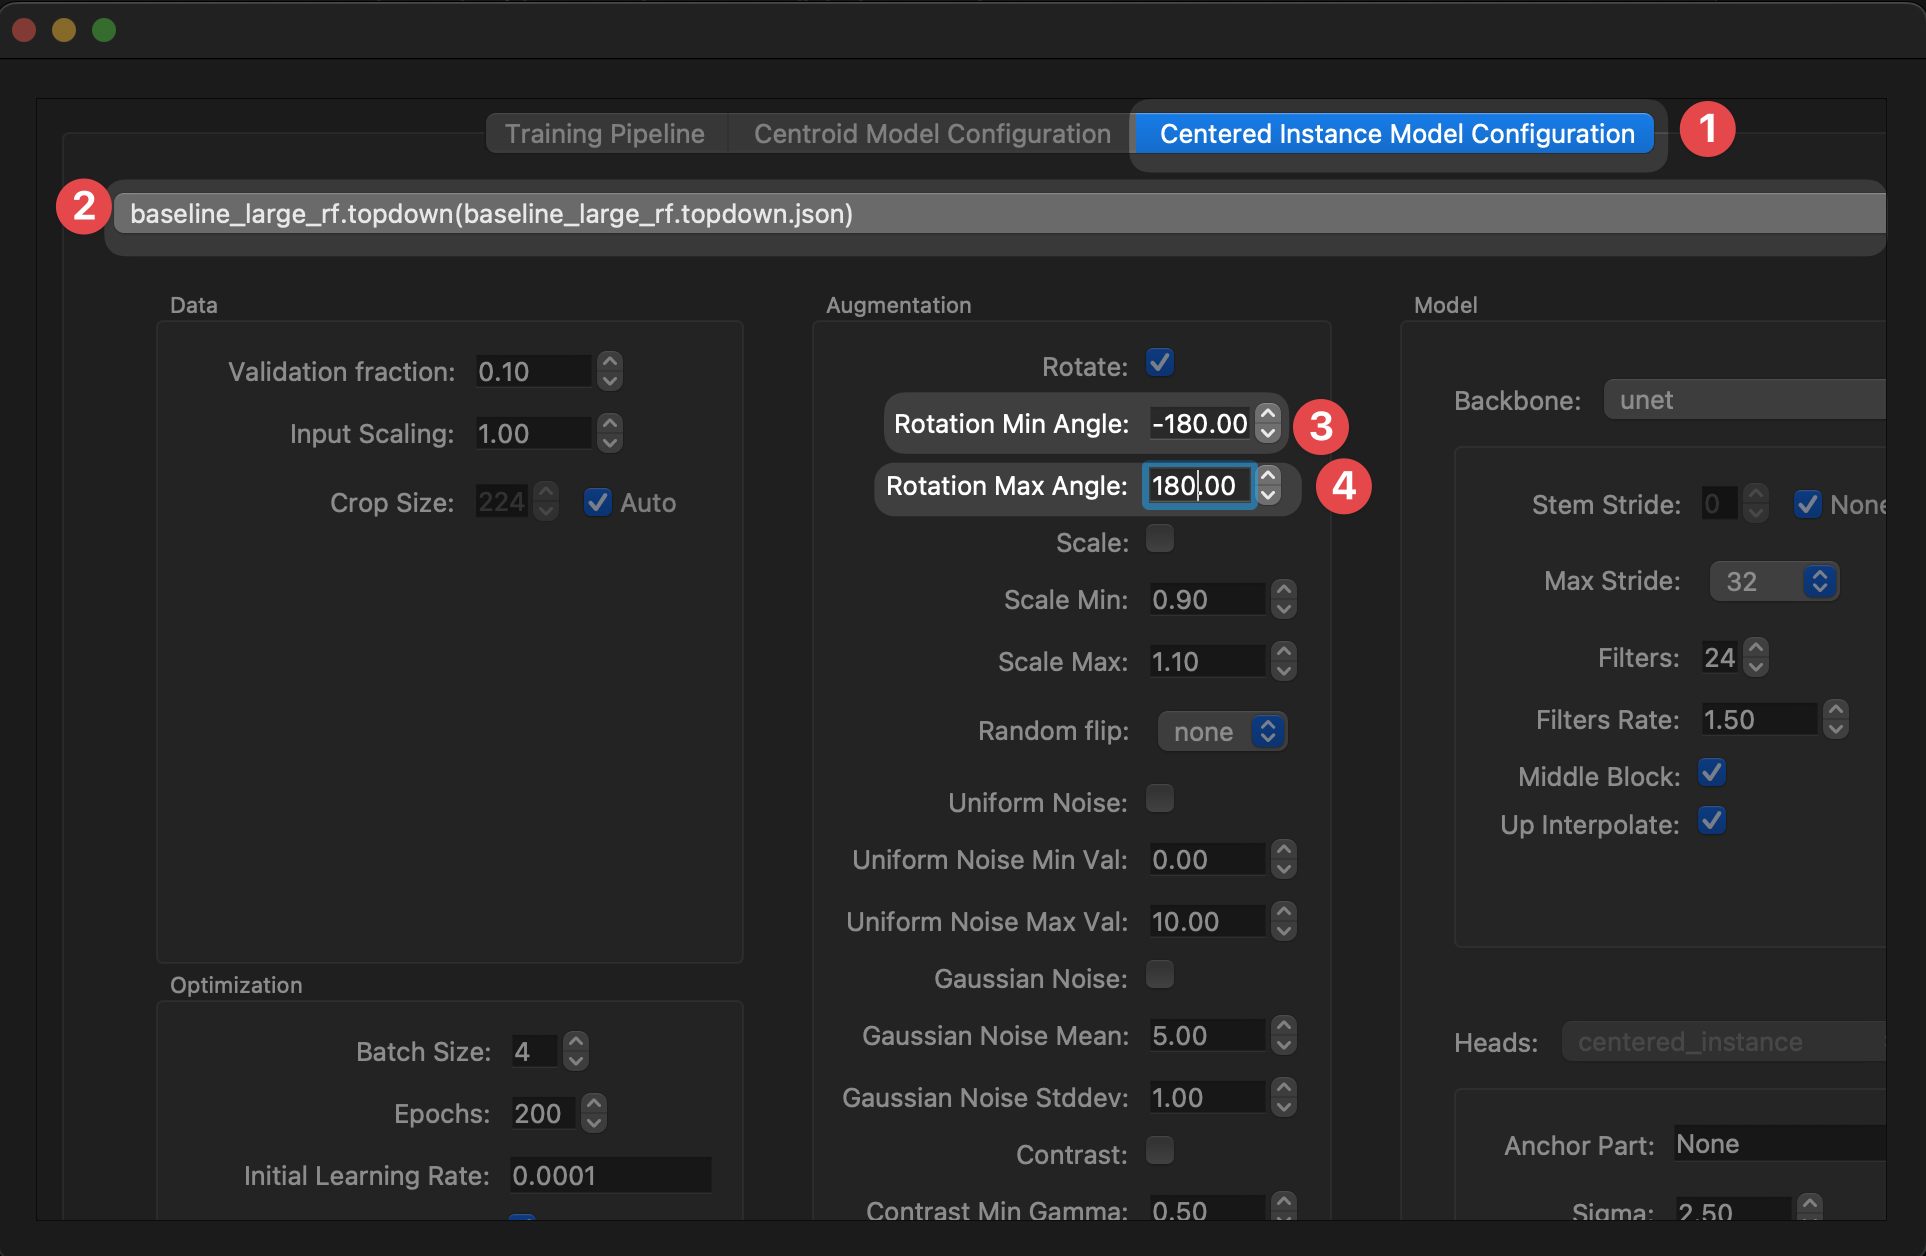
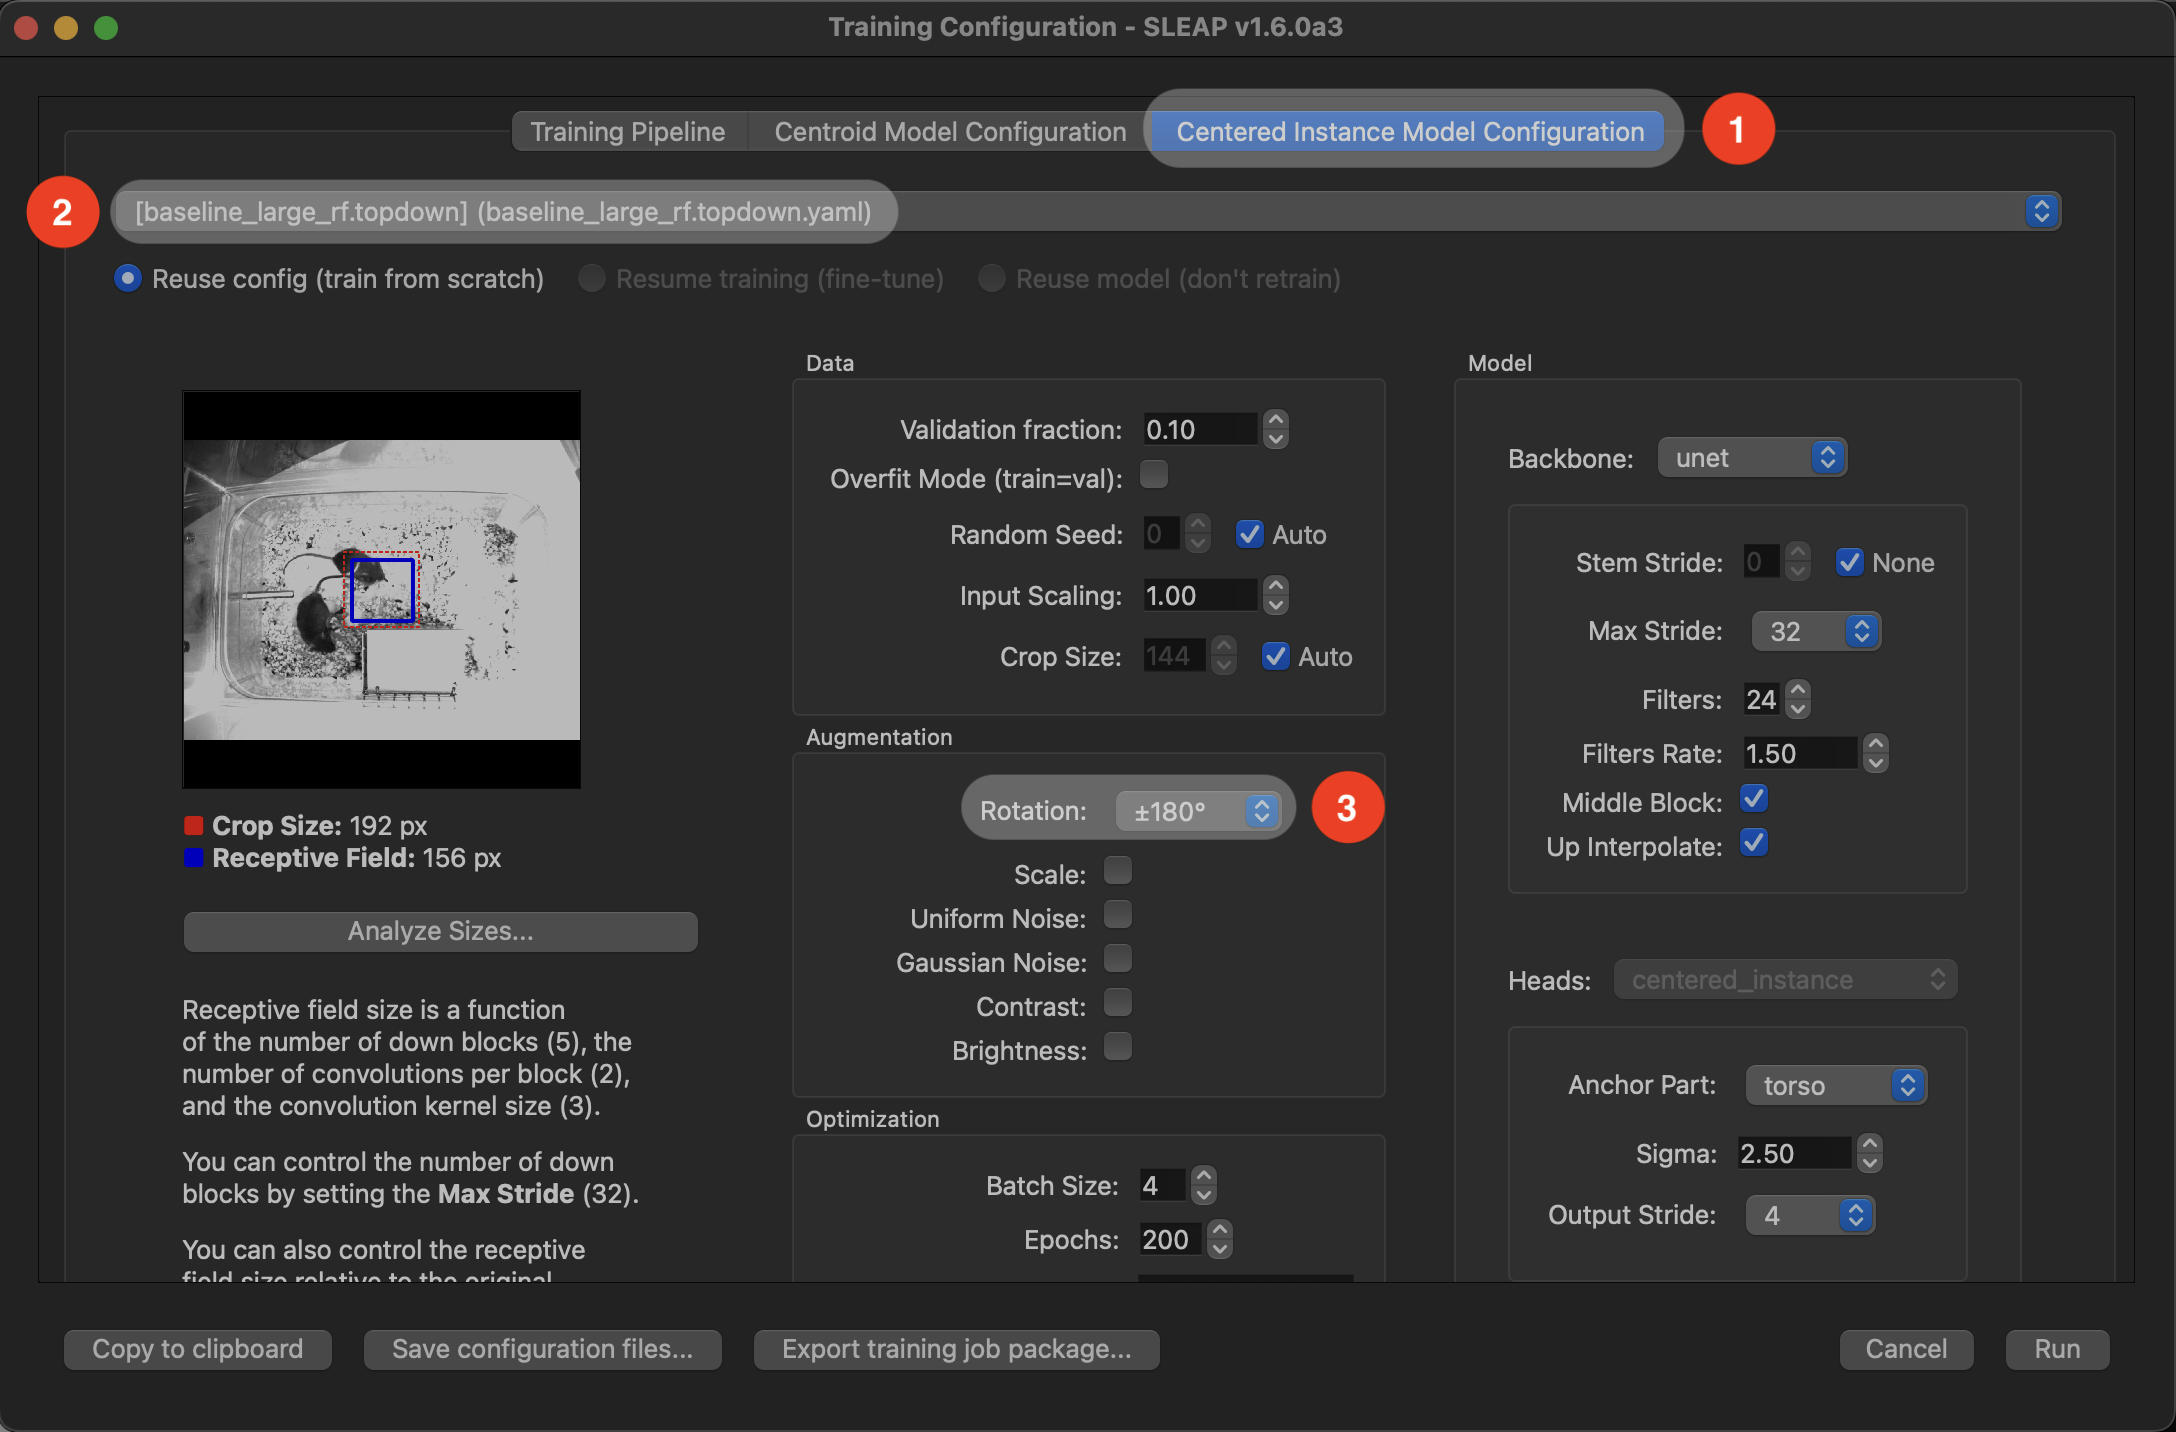
Update tutorial screenshots and remove outdated warning
- Replace 8 tutorial images with updated versions featuring v1.6 UI
  - training-pipeline.png, cmc.png, cimc.gif, inference-results.png
  - second-train-centroid.png, second-train-centered-instance.png
  - inference-pipeline.gif, running-inference.png
- Remove known bug warning from tracking-new-data.md (bug was fixed)

diff --git a/docs/tutorial/tracking-new-data.md b/docs/tutorial/tracking-new-data.md
@@ -21,9 +21,6 @@ We have included a testing video in the tutorial data which we will be tracking 
 
     ![](../assets/images/tutorial/run-inference.png)
 
-    !!! warning
-        Did you close the inference window and now cannot open it again? This is a known bug. Closing and re-opening SLEAP should allow you to run inference again.
-
 4. *Optional:* For this tutorial, we include a pretrained model that you can use for inference, but if you were happy with the model you just trained in the previous step, you can manually select it in this step.
     
     !!! note
